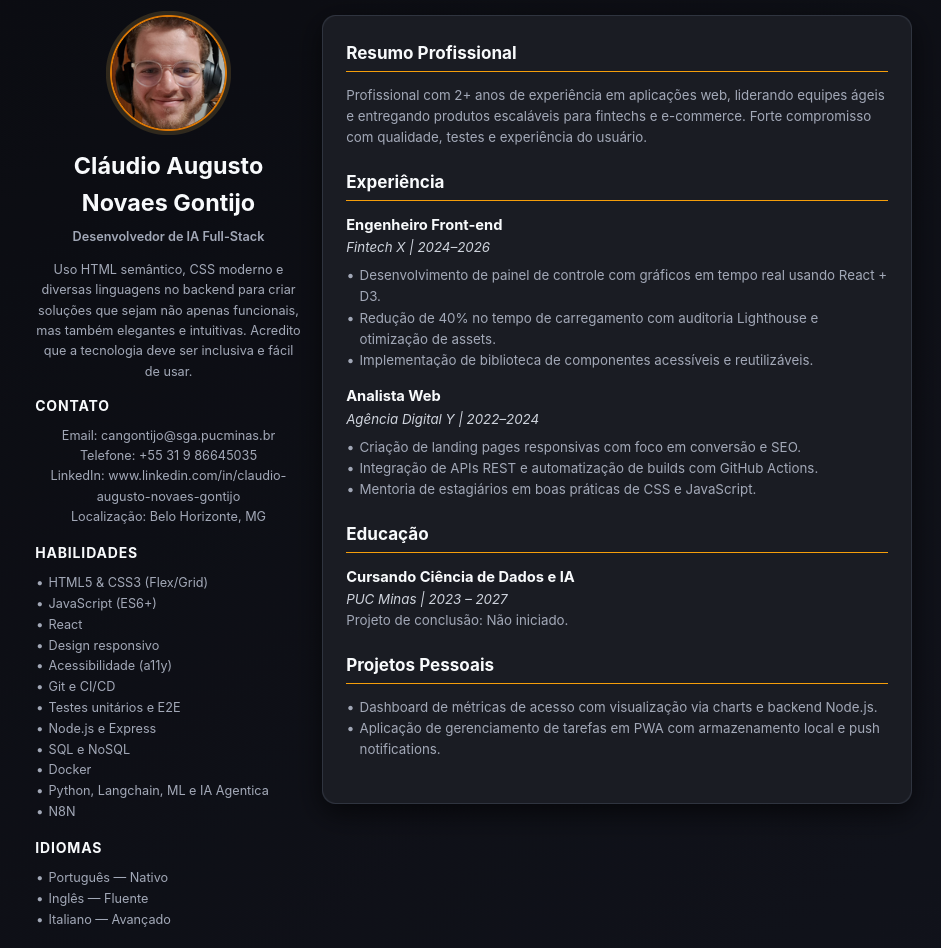
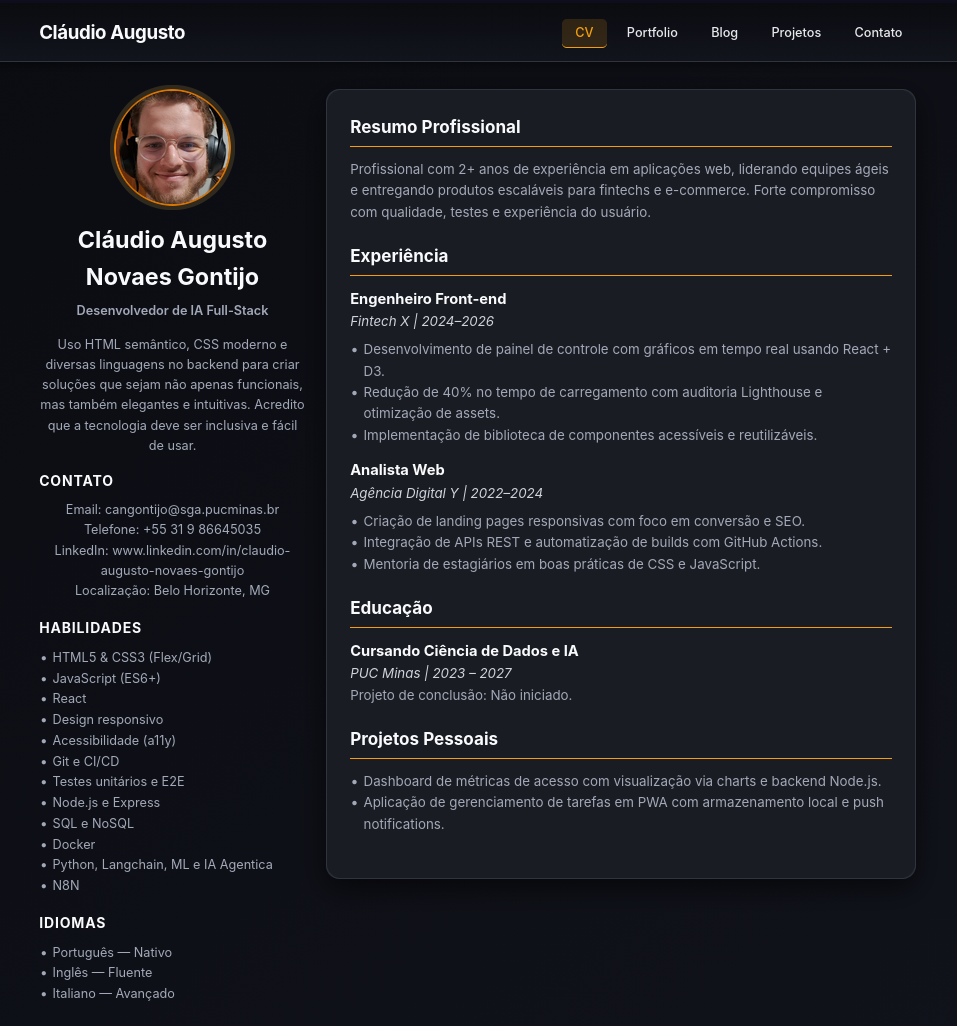
Add navigation bar and enhance styles for improved user experience - matrícula 835748

diff --git a/public/style.css b/public/style.css
@@ -22,6 +22,70 @@ body {
     line-height: 1.6;
 }
 
+/* Navbar Styles */
+.navbar {
+    position: sticky;
+    top: 0;
+    z-index: 1000;
+    background: linear-gradient(180deg, rgba(11, 12, 16, 0.98) 0%, rgba(18, 20, 29, 0.95) 100%);
+    border-bottom: 1px solid var(--border);
+    box-shadow: 0 4px 12px rgba(0, 0, 0, 0.4);
+    backdrop-filter: blur(8px);
+}
+
+.nav-wrapper {
+    max-width: 1100px;
+    margin: 0 auto;
+    padding: 0 24px;
+    display: flex;
+    justify-content: space-between;
+    align-items: center;
+    height: 70px;
+}
+
+.nav-logo {
+    font-size: 1.4rem;
+    font-weight: 700;
+    color: var(--heading);
+    text-decoration: none;
+    letter-spacing: -0.02em;
+    transition: color 0.3s ease;
+}
+
+.nav-logo:hover {
+    color: var(--accent-soft);
+}
+
+.nav-menu {
+    display: flex;
+    list-style: none;
+    margin: 0;
+    padding: 0;
+    gap: 8px;
+}
+
+.nav-link {
+    color: var(--text);
+    text-decoration: none;
+    padding: 8px 16px;
+    border-radius: 6px;
+    font-size: 0.95rem;
+    font-weight: 500;
+    transition: all 0.3s ease;
+    position: relative;
+}
+
+.nav-link:hover {
+    color: var(--accent-soft);
+    background-color: rgba(245, 158, 11, 0.1);
+}
+
+.nav-link.active {
+    color: var(--accent-soft);
+    background-color: rgba(245, 158, 11, 0.15);
+    border-bottom: 2px solid var(--accent-soft);
+}
+
 .container {
     max-width: 1100px;
     margin: 32px auto;
@@ -177,6 +241,24 @@ body {
 }
 
 @media (max-width: 760px) {
+    .nav-wrapper {
+        padding: 0 18px;
+        height: 60px;
+    }
+
+    .nav-logo {
+        font-size: 1.2rem;
+    }
+
+    .nav-menu {
+        gap: 4px;
+    }
+
+    .nav-link {
+        padding: 6px 12px;
+        font-size: 0.85rem;
+    }
+
     .container {
         padding: 0 18px 30px;
     }

diff --git a/public/index.html b/public/index.html
@@ -7,6 +7,19 @@
   <title>Currículo | Cláudio Augusto</title>
 </head>
 <body>
+  <nav class="navbar">
+    <div class="nav-wrapper">
+      <a href="index.html" class="nav-logo">Cláudio Augusto</a>
+      <ul class="nav-menu">
+        <li><a href="index.html" class="nav-link active">CV</a></li>
+        <li><a href="portfolio.html" class="nav-link">Portfolio</a></li>
+        <li><a href="blog.html" class="nav-link">Blog</a></li>
+        <li><a href="projetos.html" class="nav-link">Projetos</a></li>
+        <li><a href="contato.html" class="nav-link">Contato</a></li>
+      </ul>
+    </div>
+  </nav>
+
   <main class="container">
     <aside class="sidebar">
       <img class="avatar" src="selfie.jpeg" alt="Foto de perfil" />

diff --git a/README.md b/README.md
@@ -7,5 +7,4 @@
 
 ## Print da tela da página criada (Curriculum Vitae)
 
-`<Coloque aqui o print da tela do Curriculum Vitae>`
-![Print do meu CV](public/print_cv.png.png)
+![Print do meu CV](public/print_cv.png)
